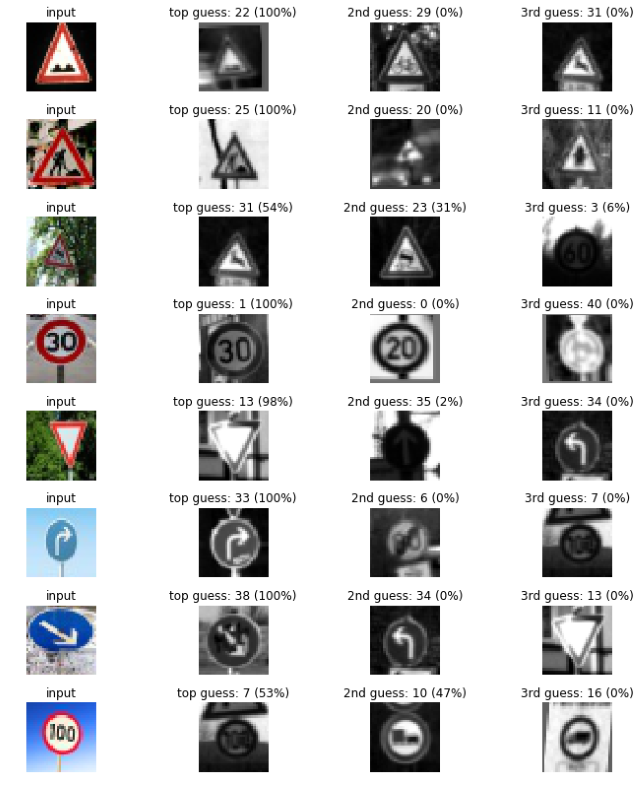
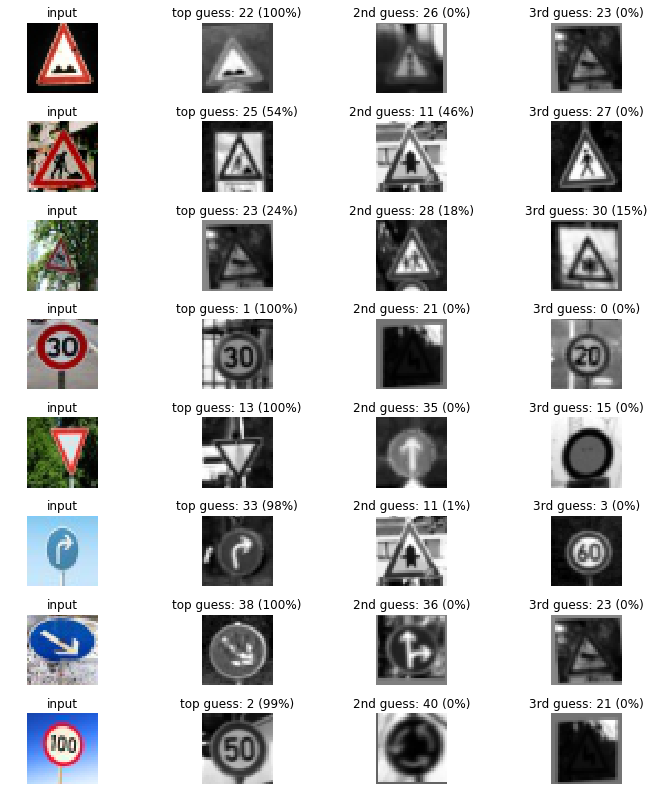
reworked writeup and added dropout to a revised model

diff --git a/README.md b/README.md
@@ -99,15 +99,18 @@ My final model consisted of the following layers:
 
 | Layer         		|     Description	        					| 
 |:---------------------:|:---------------------------------------------:| 
-| Input         		| 32x32x3 RGB image   							| 
+| Input         		| 32x32x1 Grayscale image 						| 
 | Convolution 5x5     	| 1x1 stride, same padding, outputs 28x28x48 	|
 | RELU					|												|
+| Dropout				|												|
 | Max pooling	      	| 2x2 stride,  outputs 14x14x48 				|
 | Convolution 5x5	    | 1x1 stride, same padding, outputs 10x10x96 	|
 | RELU          		|          									    |
+| Dropout				|												|
 | Max pooling	      	| 2x2 stride,  outputs 5x5x96    				|
 | Convolution 3x3	    | 1x1 stride, same padding, outputs 3x3x172 	|
 | RELU          		|          									    |
+| Dropout				|												|
 | Max pooling	      	| 1x1 stride,  outputs 2x2x172    				|
 | Flatten				| 688        									|
 | Fully Connected		| input 688, output 84							|
@@ -118,14 +121,13 @@ My final model consisted of the following layers:
 
 #### 3. Describe how you trained your model. The discussion can include the type of optimizer, the batch size, number of epochs and any hyperparameters such as learning rate.
 
-To train the model, I used a 128 image batch size and 30 epochs.  My sigma was set to 0.01 and learn rate was set to 0.001.
+To train the model, I used a 128 image batch size and 25 epochs.  My sigma was set to 0.1 and learn rate was set to 0.001.
 
 #### 4. Describe the approach taken for finding a solution and getting the validation set accuracy to be at least 0.93. Include in the discussion the results on the training, validation and test sets and where in the code these were calculated. Your approach may have been an iterative process, in which case, outline the steps you took to get to the final solution and why you chose those steps. Perhaps your solution involved an already well known implementation or architecture. In this case, discuss why you think the architecture is suitable for the current problem.
 
 My final model results were:
-training set accuracy of 93.0%
-validation set accuracy of 97.5% 
-test set accuracy of 87.5%
+validation set accuracy of 99.7% 
+test set accuracy of 95.6%
 
 If an iterative approach was chosen:
 * What was the first architecture that was tried and why was it chosen?
@@ -136,20 +138,27 @@ I increased the epochs and determined that the network may be overfitting since 
 
 * How was the architecture adjusted and why was it adjusted? Typical adjustments could include choosing a different model architecture, adding or taking away layers (pooling, dropout, convolution, etc), using an activation function or changing the activation function. One common justification for adjusting an architecture would be due to overfitting or underfitting. A high accuracy on the training set but low accuracy on the validation set indicates over fitting; a low accuracy on both sets indicates under fitting.
 
+I changed the image batch size previously and the number of epochs while running the default network and the network that I created without dropout.  I added for my final solution 3 convolution layers with the rectifier activation function including pooling and dropout.  I also have a flattening layer and then finally two cully connected layers prior to the 43 class output.
+
 * Which parameters were tuned? How were they adjusted and why?
+I did change sigma, rate, epochs and batch size to test what modifications did for my results.  
+
 * What are some of the important design choices and why were they chosen? For example, why might a convolution layer work well with this problem? How might a dropout layer help with creating a successful model?
 
 If a well known architecture was chosen:
 * What architecture was chosen?
 * Why did you believe it would be relevant to the traffic sign application?
+I used teh LeNet architecture which was relevant to this solution since the architecture performed very well when used in character recognition.  With modification of the traffic sign data (mainly grayscale and normalization)  this problem ends up being very similar to the character recognition problem and was the resent for me staying with the LeNet architecture.
+
 * How does the final model's accuracy on the training, validation and test set provide evidence that the model is working well?
+Both Validation and test accuracy now indicate that we are not underfitting or overfitting.
  
 
 ### Test a Model on New Images
 
 #### 1. Choose five German traffic signs found on the web and provide them in the report. For each image, discuss what quality or qualities might be difficult to classify.
 
-Here are five German traffic signs that I found on the web:
+Here are 8 German traffic signs that I found on the web:
 
 ![alt text][image6] 
 
@@ -164,23 +173,24 @@ Here are the results of the prediction:
 |:-----------------------------:|:---------------------------------------------:| 
 | Bumpy Road     		        | Bumpy Road  									| 
 | Road Work    			        | Road Work 									|
-| Slippery road                 | Wild Animal Crossing					|
+| Slippery road                 | Slippery road		                			|
 | 30 km/h                       | 30 km/h                   					|
 | Yield					        | Yield											|
 | Turn Right Ahead		        | Turn Right Ahead								|
 | Keep Right      		        | Keep Right					 				|
-| 100 km/h			            | 100 km/h      				    			|
+| 100 km/h			            | 50 km/h      				    			    |
 
 
-The model was able to correctly guess 5 of the 5 traffic signs, which gives an accuracy of 87.5%. This compares less than favorably to the accuracy on the test set of 96.1%
+The model was able to correctly guess 7 of the 8 traffic signs, which gives an accuracy of 87.5%. This compares less than favorably to the accuracy on the test set of 95.6%. 
 
 ![alt text][image7] 
 
 #### 3. Describe how certain the model is when predicting on each of the five new images by looking at the softmax probabilities for each prediction. Provide the top 5 softmax probabilities for each image along with the sign type of each probability. (OPTIONAL: as described in the "Stand Out Suggestions" part of the rubric, visualizations can also be provided such as bar charts)
 
-The code for making predictions on my final model is located in the 11th cell of the Ipython notebook.
 
-For the first image, the model is relatively sure that this is a stop sign (probability of 0.6), and the image does contain a stop sign. The top five soft max probabilities were
+For the first image, the model is sure that this is a Bumpy Road sign (probability of 1.0), and the image does contain a bumpy road sign. I was surprised that the model figured out slippery road, since that one was by far the hardest image to recognize due to the quality, angle and not a lot of contrast between the sign and the background.  I was also suprised that the model did not recognize the 100 km/h sign, i think modification to my training set with rotated images may solve that problem.
+
+The top 8 soft max probabilities were
 
 ![alt text][image8] 
 
